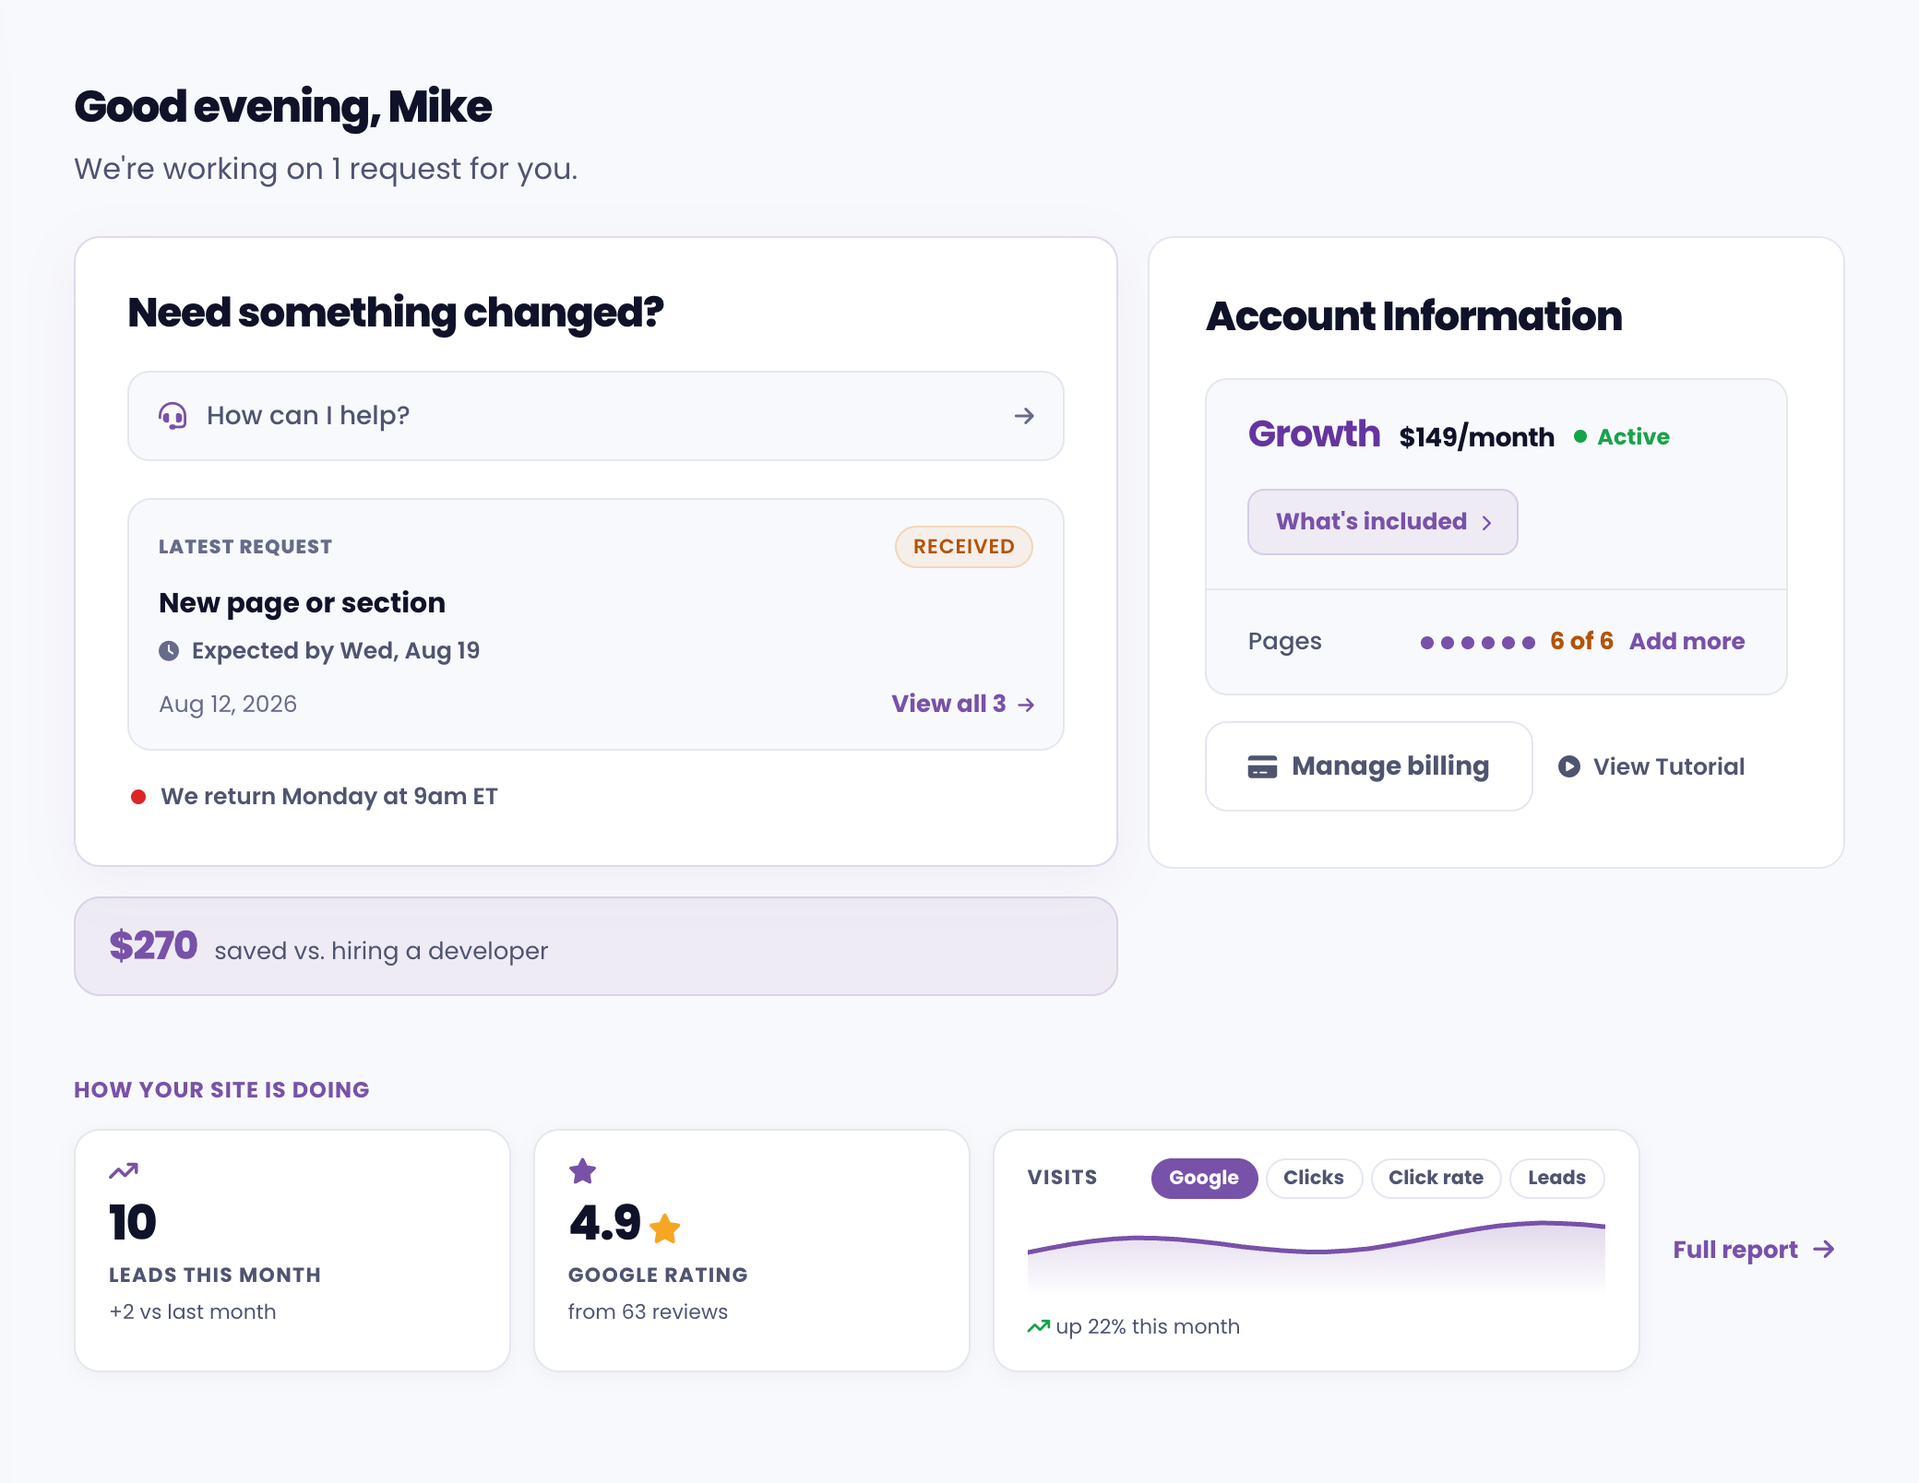
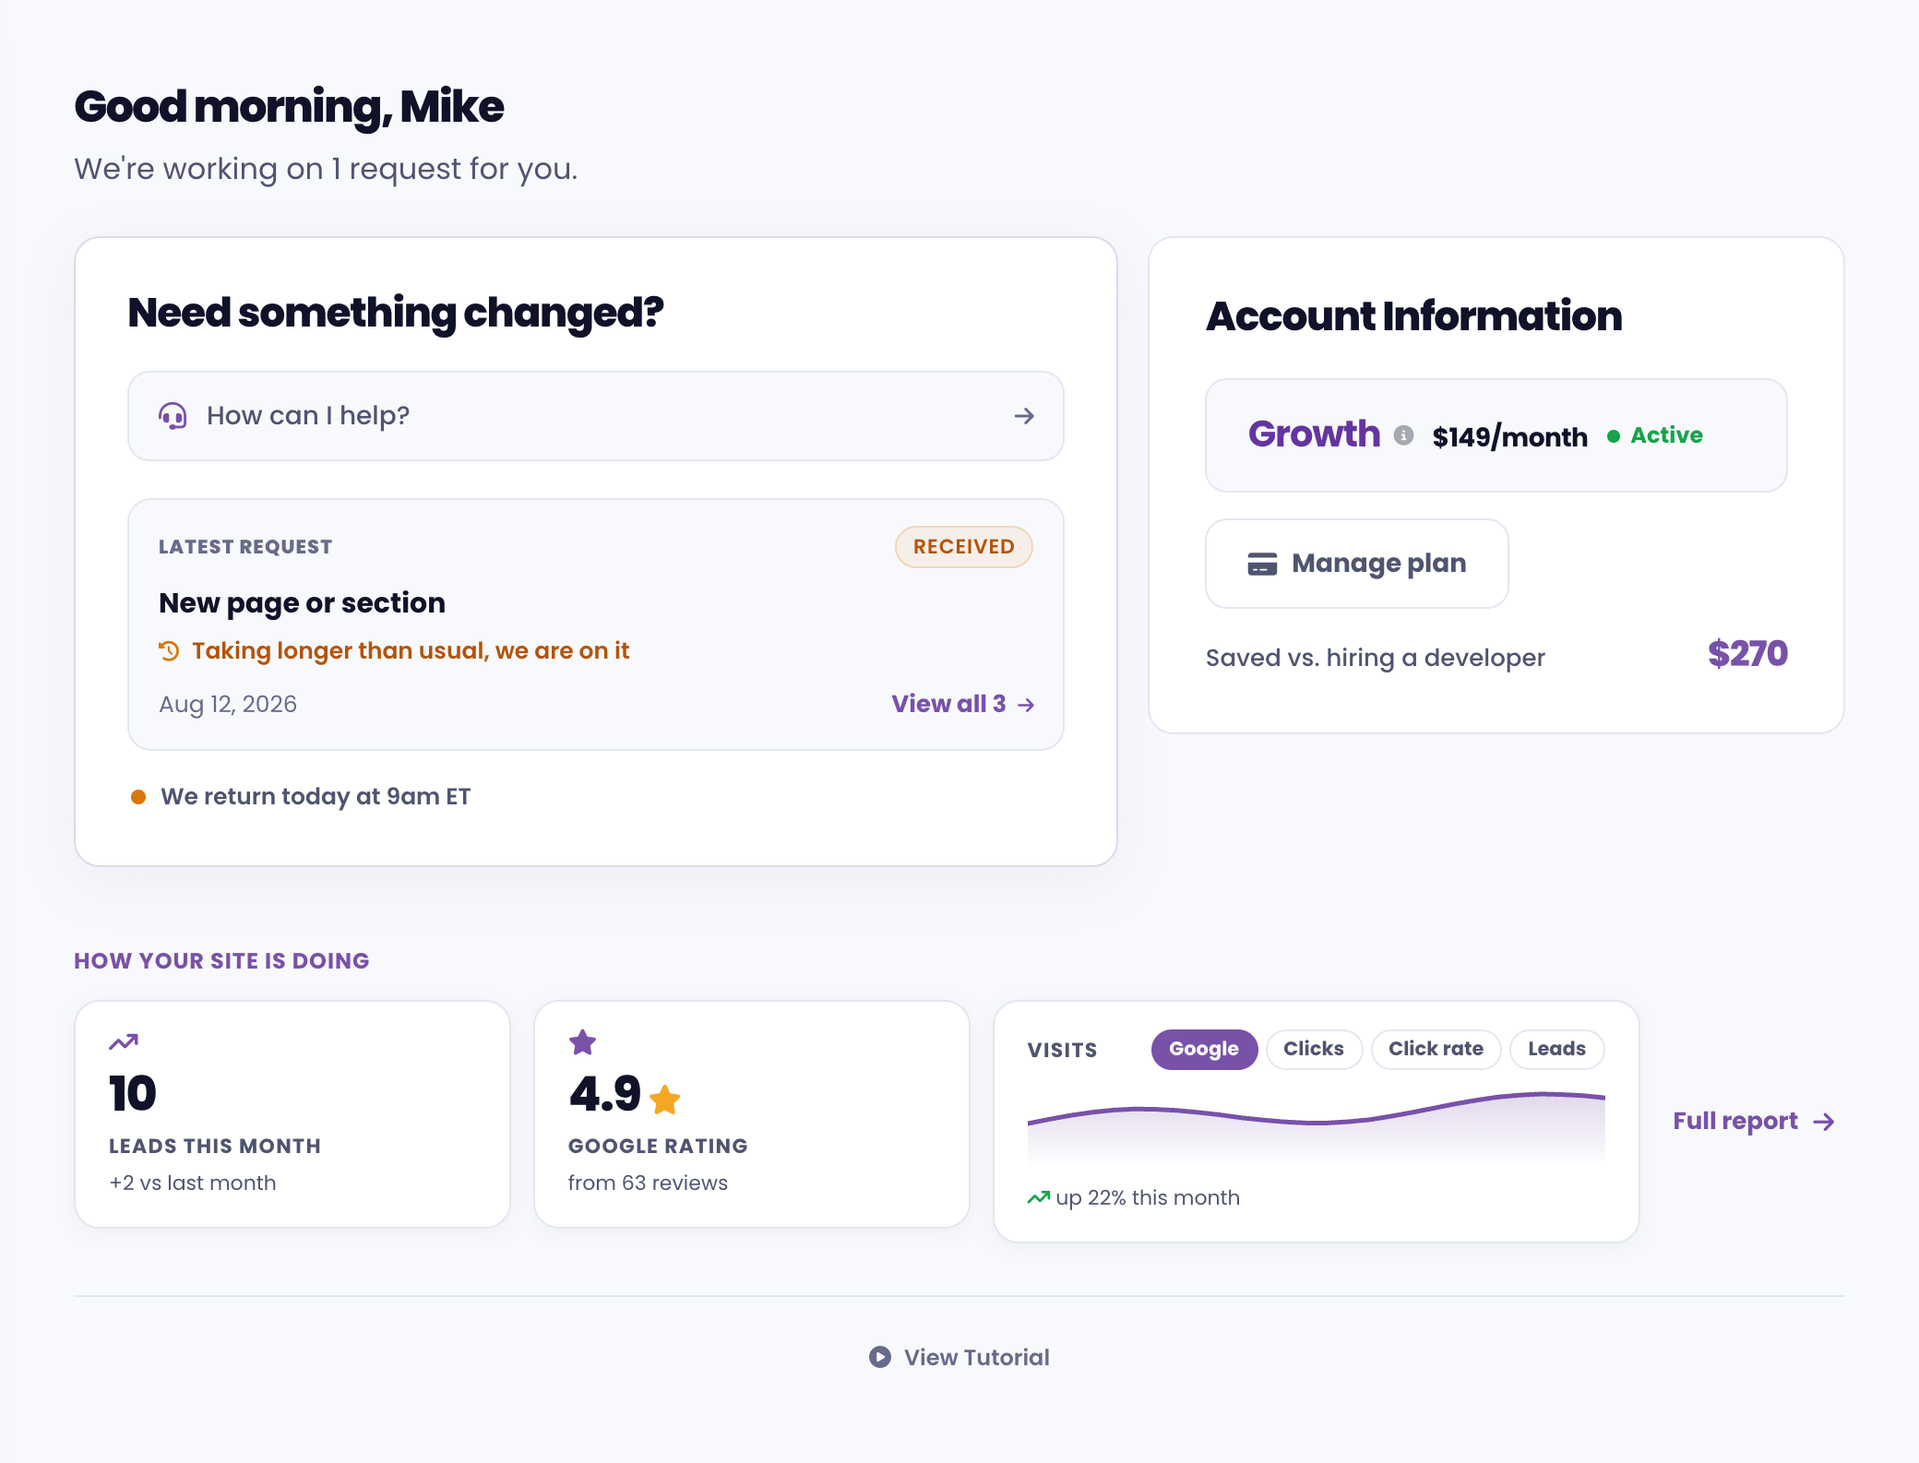
feat(billing-info): add billing-info function for client plan management and invoice history

diff --git a/supabase/functions/billing-info/index.ts b/supabase/functions/billing-info/index.ts
@@ -1,0 +1,157 @@
+// Supabase Edge Function: billing-info
+// Powers the portal's "Manage plan" panel, so a client can see their plan, their renewal and their
+// full invoice history WITHOUT being dropped into Stripe's own portal to hunt for it.
+//
+// Two actions:
+//   { action: 'summary' }            -> plan, renewal, card status, and the last 12 invoices with
+//                                       their hosted + PDF links (up to 36). Read-only.
+//   { action: 'portal', flow? }      -> a Stripe Billing Portal URL. `flow` deep-links straight to
+//                                       the right page instead of the portal's front door:
+//                                         'subscription_update'  change plan
+//                                         'payment_method_update' update the card
+//                                         'subscription_cancel'   cancel (portal shows the retention flow)
+//                                       Omit `flow` for the normal portal home.
+//
+// Why both: reading is nicer in our own UI (no bounce, matches the portal), but ACTUALLY changing a
+// subscription or storing a card has to happen on Stripe. Deep-linking means the client lands on the
+// exact page rather than a menu.
+//
+// Called with the client's JWT. Body may include { targetUserId } when billy@webeaze.io previews.
+//
+// Deploy:  supabase functions deploy billing-info   (Verify JWT ON; the portal sends a JWT)
+// Secret:  STRIPE_SECRET_KEY (the same key create-invoice and payment-status use)
+
+import { createClient } from 'jsr:@supabase/supabase-js@2';
+
+const STRIPE_SECRET_KEY = Deno.env.get('STRIPE_SECRET_KEY') ?? '';
+const PORTAL_URL = 'https://portal.webeaze.io';
+const ADMIN = 'billy@webeaze.io';
+
+const cors = {
+  'Access-Control-Allow-Origin': '*',
+  'Access-Control-Allow-Headers': 'authorization, x-client-info, apikey, content-type',
+  'Access-Control-Allow-Methods': 'POST, OPTIONS',
+};
+const json = (b: unknown, s = 200) => new Response(JSON.stringify(b), { status: s, headers: { ...cors, 'Content-Type': 'application/json' } });
+
+function form(params: Record<string, string | number>) {
+  return Object.entries(params).map(([k, v]) => encodeURIComponent(k) + '=' + encodeURIComponent(String(v))).join('&');
+}
+async function stripeGet(path: string): Promise<any> {
+  const res = await fetch('https://api.stripe.com/v1/' + path, { headers: { Authorization: 'Bearer ' + STRIPE_SECRET_KEY } });
+  const d = await res.json();
+  if (!res.ok) throw new Error((d && d.error && d.error.message) || ('Stripe ' + res.status));
+  return d;
+}
+async function stripePost(path: string, body: Record<string, string | number>): Promise<any> {
+  const res = await fetch('https://api.stripe.com/v1/' + path, {
+    method: 'POST',
+    headers: { Authorization: 'Bearer ' + STRIPE_SECRET_KEY, 'Content-Type': 'application/x-www-form-urlencoded' },
+    body: form(body),
+  });
+  const d = await res.json();
+  if (!res.ok) throw new Error((d && d.error && d.error.message) || ('Stripe ' + res.status));
+  return d;
+}
+
+const FAILING = new Set(['past_due', 'unpaid', 'incomplete']);
+const money = (cents: number | null | undefined, cur: string) =>
+  cents == null ? null : new Intl.NumberFormat('en-US', { style: 'currency', currency: (cur || 'usd').toUpperCase() }).format(cents / 100);
+
+Deno.serve(async (req) => {
+  if (req.method === 'OPTIONS') return new Response('ok', { headers: cors });
+  if (req.method !== 'POST') return json({ error: 'Method not allowed' }, 405);
+
+  try {
+    const body = await req.json().catch(() => ({} as any));
+    const authed = createClient(Deno.env.get('SUPABASE_URL')!, Deno.env.get('SUPABASE_ANON_KEY')!, { global: { headers: { Authorization: req.headers.get('Authorization') ?? '' } } });
+    const { data: { user } } = await authed.auth.getUser();
+    if (!user) return json({ error: 'Unauthorized' }, 401);
+    const targetUserId = (body.targetUserId && user.email === ADMIN) ? body.targetUserId : user.id;
+
+    const service = createClient(Deno.env.get('SUPABASE_URL')!, Deno.env.get('SUPABASE_SERVICE_ROLE_KEY')!);
+    const { data: c } = await service.from('clients')
+      .select('stripe_customer_id, plan, plan_amount, billing_period, billing_label, next_billing_date')
+      .eq('user_id', targetUserId).maybeSingle();
+    if (!c) return json({ ok: false, reason: 'no-client' });
+
+    // A custom arrangement is invoiced by hand, so there is no subscription to manage and no Stripe
+    // portal that would make sense. Say so plainly rather than opening an empty page.
+    const custom = !!String(c.billing_label || '').trim();
+    const cust = c.stripe_customer_id;
+    if (!STRIPE_SECRET_KEY) return json({ ok: false, reason: 'not-configured' });
+    if (custom) return json({ ok: true, custom: true, label: c.billing_label, plan: c.plan, invoices: [] });
+    if (!cust) return json({ ok: true, noStripe: true, plan: c.plan, planAmount: c.plan_amount, billingPeriod: c.billing_period, invoices: [] });
+
+    // ── A Stripe portal link, deep-linked to a flow when one was asked for ──
+    if (body.action === 'portal') {
+      const FLOWS: Record<string, string> = { subscription_update: 'subscription_update', payment_method_update: 'payment_method_update', subscription_cancel: 'subscription_cancel' };
+      const params: Record<string, string | number> = { customer: cust, return_url: PORTAL_URL };
+      const flow = FLOWS[String(body.flow || '')];
+      if (flow) {
+        params['flow_data[type]'] = flow;
+        params['flow_data[after_completion][type]'] = 'redirect';
+        params['flow_data[after_completion][redirect][return_url]'] = PORTAL_URL;
+        // Update and cancel both need to know WHICH subscription they act on.
+        if (flow === 'subscription_update' || flow === 'subscription_cancel') {
+          const subs = await stripeGet('subscriptions?customer=' + encodeURIComponent(cust) + '&status=active&limit=1');
+          const sub = subs.data && subs.data[0];
+          if (!sub) return json({ ok: false, reason: 'no-subscription' });
+          params['flow_data[' + flow + '][subscription]'] = sub.id;
+        }
+      }
+      try {
+        const ses = await stripePost('billing_portal/sessions', params);
+        return json({ ok: true, url: ses.url });
+      } catch (e) {
+        // A portal configuration that has not enabled a flow throws here. Fall back to the plain
+        // portal so the button still does something useful instead of erroring.
+        console.error('[billing-info] portal flow failed, falling back:', e);
+        const ses = await stripePost('billing_portal/sessions', { customer: cust, return_url: PORTAL_URL });
+        return json({ ok: true, url: ses.url, fellBack: true });
+      }
+    }
+
+    // ── Summary: what they are on, and what they have been charged ──
+    const [subs, invs] = await Promise.all([
+      stripeGet('subscriptions?customer=' + encodeURIComponent(cust) + '&status=all&limit=20'),
+      // Grouped by year in the portal, so pull a few years rather than the last twelve.
+      stripeGet('invoices?customer=' + encodeURIComponent(cust) + '&limit=36'),
+    ]);
+    const list = subs.data || [];
+    const live = list.find((s: any) => s.status === 'active' || s.status === 'trialing') || null;
+    const item = live && live.items && live.items.data && live.items.data[0];
+    const interval = (item && item.price && item.price.recurring && item.price.recurring.interval) || null;
+    const cents = live ? ((live.items.data || []).reduce((t: number, it: any) => t + (((it.price && it.price.unit_amount) || 0) * (it.quantity || 1)), 0)) : null;
+    const cpe = live ? (live.current_period_end || (item && item.current_period_end) || null) : null;
+
+    const invoices = (invs.data || [])
+      // A $0 draft carries no information for a client, and a draft is not a bill yet.
+      .filter((i: any) => i.status && i.status !== 'draft' && (i.amount_due > 0 || i.amount_paid > 0))
+      .map((i: any) => ({
+        id: i.id,
+        number: i.number || null,
+        date: i.created ? new Date(i.created * 1000).toISOString().slice(0, 10) : null,
+        amount: money(i.amount_paid || i.amount_due, i.currency),
+        status: i.status,                       // paid | open | uncollectible | void
+        paid: i.status === 'paid',
+        url: i.hosted_invoice_url || null,
+        pdf: i.invoice_pdf || null,
+      }));
+
+    return json({
+      ok: true,
+      plan: c.plan || null,
+      amount: money(cents, (live && live.currency) || 'usd'),
+      billingPeriod: interval === 'year' ? 'yearly' : (interval === 'month' ? 'monthly' : c.billing_period || null),
+      renewsOn: cpe ? new Date(cpe * 1000).toISOString().slice(0, 10) : (c.next_billing_date || null),
+      status: live ? live.status : (list[0] && list[0].status) || 'none',
+      needsCardUpdate: list.some((s: any) => FAILING.has(s.status)),
+      cancelsAtPeriodEnd: !!(live && live.cancel_at_period_end),
+      invoices,
+    });
+  } catch (e) {
+    console.error('[billing-info] error:', e);
+    return json({ ok: false, reason: 'error', message: String(e && (e as any).message || e).slice(0, 200) });
+  }
+});

diff --git a/supabase/functions/payment-status/index.ts b/supabase/functions/payment-status/index.ts
@@ -36,6 +36,26 @@ async function stripeGet(path: string): Promise<any> {
 // Statuses that mean a payment has failed and the card on file needs updating.
 const FAILING = new Set(['past_due', 'unpaid', 'incomplete']);
 
+// Which plan a Stripe subscription represents. In practice the PRICE NICKNAME does the work: without
+// an expand, price.product is only an id string, so the product-name branch is there for a caller
+// that does pass an expanded object and is otherwise skipped. Failing both, the amount decides.
+// Without this, changing a plan in Stripe updated the money on the client record but left
+// clients.plan saying the old thing, so every isAdvancedPlan() gate kept showing the old tier.
+// Name your Stripe prices (nickname "Growth monthly", "Essential yearly") and this is exact.
+const PLAN_BY_AMOUNT: Record<number, string> = { 169: 'Essential', 1690: 'Essential', 249: 'Growth', 2490: 'Growth' };
+function planFromSub(sub: any, dollars: number | null): string | null {
+  const items = (sub && sub.items && sub.items.data) || [];
+  for (const it of items) {
+    const price = it.price || {};
+    const product = price.product && typeof price.product === 'object' ? price.product : null;
+    const text = String((product && product.name) || price.nickname || '').toLowerCase();
+    if (/elite/.test(text)) return 'Elite';
+    if (/growth/.test(text)) return 'Growth';
+    if (/essential/.test(text)) return 'Essential';
+  }
+  return dollars != null ? (PLAN_BY_AMOUNT[dollars] || null) : null;
+}
+
 Deno.serve(async (req) => {
   if (req.method === 'OPTIONS') return new Response('ok', { headers: cors });
   if (req.method !== 'POST') return json({ error: 'Method not allowed' }, 405);
@@ -48,25 +68,39 @@ Deno.serve(async (req) => {
     const targetUserId = (body.targetUserId && user.email === 'billy@webeaze.io') ? body.targetUserId : user.id;
 
     const service = createClient(Deno.env.get('SUPABASE_URL')!, Deno.env.get('SUPABASE_SERVICE_ROLE_KEY')!);
-    const { data: c } = await service.from('clients').select('stripe_customer_id, next_billing_date, billing_period').eq('user_id', targetUserId).maybeSingle();
+    // plan_amount and billing_label are read, not just written: the amount is compared before an
+    // update so we do not write on every call, and billing_label is what marks a custom arrangement
+    // whose price must never be replaced by a subscription figure.
+    const { data: c } = await service.from('clients').select('stripe_customer_id, next_billing_date, billing_period, plan_amount, billing_label, plan').eq('user_id', targetUserId).maybeSingle();
     const cust = c && c.stripe_customer_id;
     if (!cust || !STRIPE_SECRET_KEY) return json({ ok: true, needsCardUpdate: false, nextBillingDate: null, billingPeriod: null, source: 'none' });
 
     try {
+      // No expand here. `data.items.data.price.product` is FIVE properties deep and Stripe's limit is
+      // four, so the list call 400s and takes the whole function down with it: no card nudge, no
+      // renewal date, no plan. (Truncating to `.price` does not work either; price is not expandable
+      // on a list.) planFromSub reads the price nickname and falls back to the amount, which needs
+      // no expansion at all.
       const subs = await stripeGet('subscriptions?customer=' + encodeURIComponent(cust) + '&status=all&limit=20');
       const list = subs.data || [];
       // A subscription in past_due / unpaid / incomplete means the card on file bounced.
       let needs = list.some((s: any) => FAILING.has(s.status));
       // Next billing date + interval = the soonest upcoming period end among LIVE (active/trialing)
       // subscriptions. This is Stripe's real renewal date, so no one has to enter it by hand.
-      let nextTs: number | null = null, interval: string | null = null;
+      let nextTs: number | null = null, interval: string | null = null, amountCents: number | null = null;
+      let chosen: any = null;   // the ONE subscription every field below is read from
       for (const s of list) {
         if (s.status !== 'active' && s.status !== 'trialing') continue;
         const item = s.items && s.items.data && s.items.data[0];
         const cpe = s.current_period_end || (item && item.current_period_end) || null;
         if (cpe && (nextTs == null || cpe < nextTs)) {
-          nextTs = cpe;
+          nextTs = cpe; chosen = s;
           interval = (item && item.price && item.price.recurring && item.price.recurring.interval) || (s.plan && s.plan.interval) || null;
+          // What they are ACTUALLY charged. Summed across items so a subscription carrying an add-on
+          // line reports the real total rather than just the base plan, and multiplied by quantity.
+          const cents = ((s.items && s.items.data) || []).reduce((t: number, it: any) =>
+            t + (((it.price && it.price.unit_amount) || 0) * (it.quantity || 1)), 0);
+          amountCents = cents > 0 ? cents : null;
         }
       }
       // Backstop: flag if the latest invoice is still open and unpaid after an attempt.
@@ -77,6 +111,11 @@ Deno.serve(async (req) => {
       }
       const nextBillingDate = nextTs ? new Date(nextTs * 1000).toISOString().slice(0, 10) : null;
       const billingPeriod = interval === 'year' ? 'yearly' : (interval === 'month' ? 'monthly' : null);
+      const planAmount = amountCents != null ? Math.round(amountCents / 100) : null;
+      // Read from `chosen`, the same subscription the amount and interval came from. Picking it
+      // separately with .find() meant a client mid-change (two live subscriptions) could get the
+      // name of one and the price of the other, and both were written to their record.
+      const plan = chosen ? planFromSub(chosen, planAmount) : (list.length ? planFromSub(list[0], planAmount) : null);
 
       // Cache Stripe's real date back onto the client (only when it changed) so admin + churn radar
       // use it too, and Billy never enters it manually for a Stripe client.
@@ -84,10 +123,22 @@ Deno.serve(async (req) => {
         const patch: Record<string, unknown> = {};
         if (String(c.next_billing_date || '').slice(0, 10) !== nextBillingDate) patch.next_billing_date = nextBillingDate;
         if (billingPeriod && c.billing_period !== billingPeriod) patch.billing_period = billingPeriod;
+        // Mirror the real Stripe amount too. The date was already trusted from Stripe while the
+        // amount was whatever someone last typed, so a plan changed in Stripe left admin quoting the
+        // old price and MRR adding up wrong. A custom arrangement is left alone: its billing_label
+        // and hourly rate are the real terms and a subscription figure would misrepresent them.
+        if (planAmount != null && !String(c.billing_label || '').trim() && Number(c.plan_amount) !== planAmount) {
+          patch.plan_amount = planAmount;
+        }
+        // The plan name itself, which is what actually gates features in the portal.
+        if (plan && !String(c.billing_label || '').trim() && String(c.plan || '') !== plan) {
+          patch.plan = plan;
+          console.log('[payment-status] plan changed in Stripe: ' + (c.plan || 'none') + ' -> ' + plan);
+        }
         if (Object.keys(patch).length) { try { await service.from('clients').update(patch).eq('user_id', targetUserId); } catch (_e) { /* best effort */ } }
       }
 
-      return json({ ok: true, needsCardUpdate: needs, nextBillingDate, billingPeriod, source: 'stripe' });
+      return json({ ok: true, needsCardUpdate: needs, nextBillingDate, billingPeriod, planAmount, plan, source: 'stripe' });
     } catch (e) {
       console.error('[payment-status] stripe error:', e);
       return json({ ok: true, needsCardUpdate: false, nextBillingDate: null, billingPeriod: null, source: 'error' });   // never break the portal
